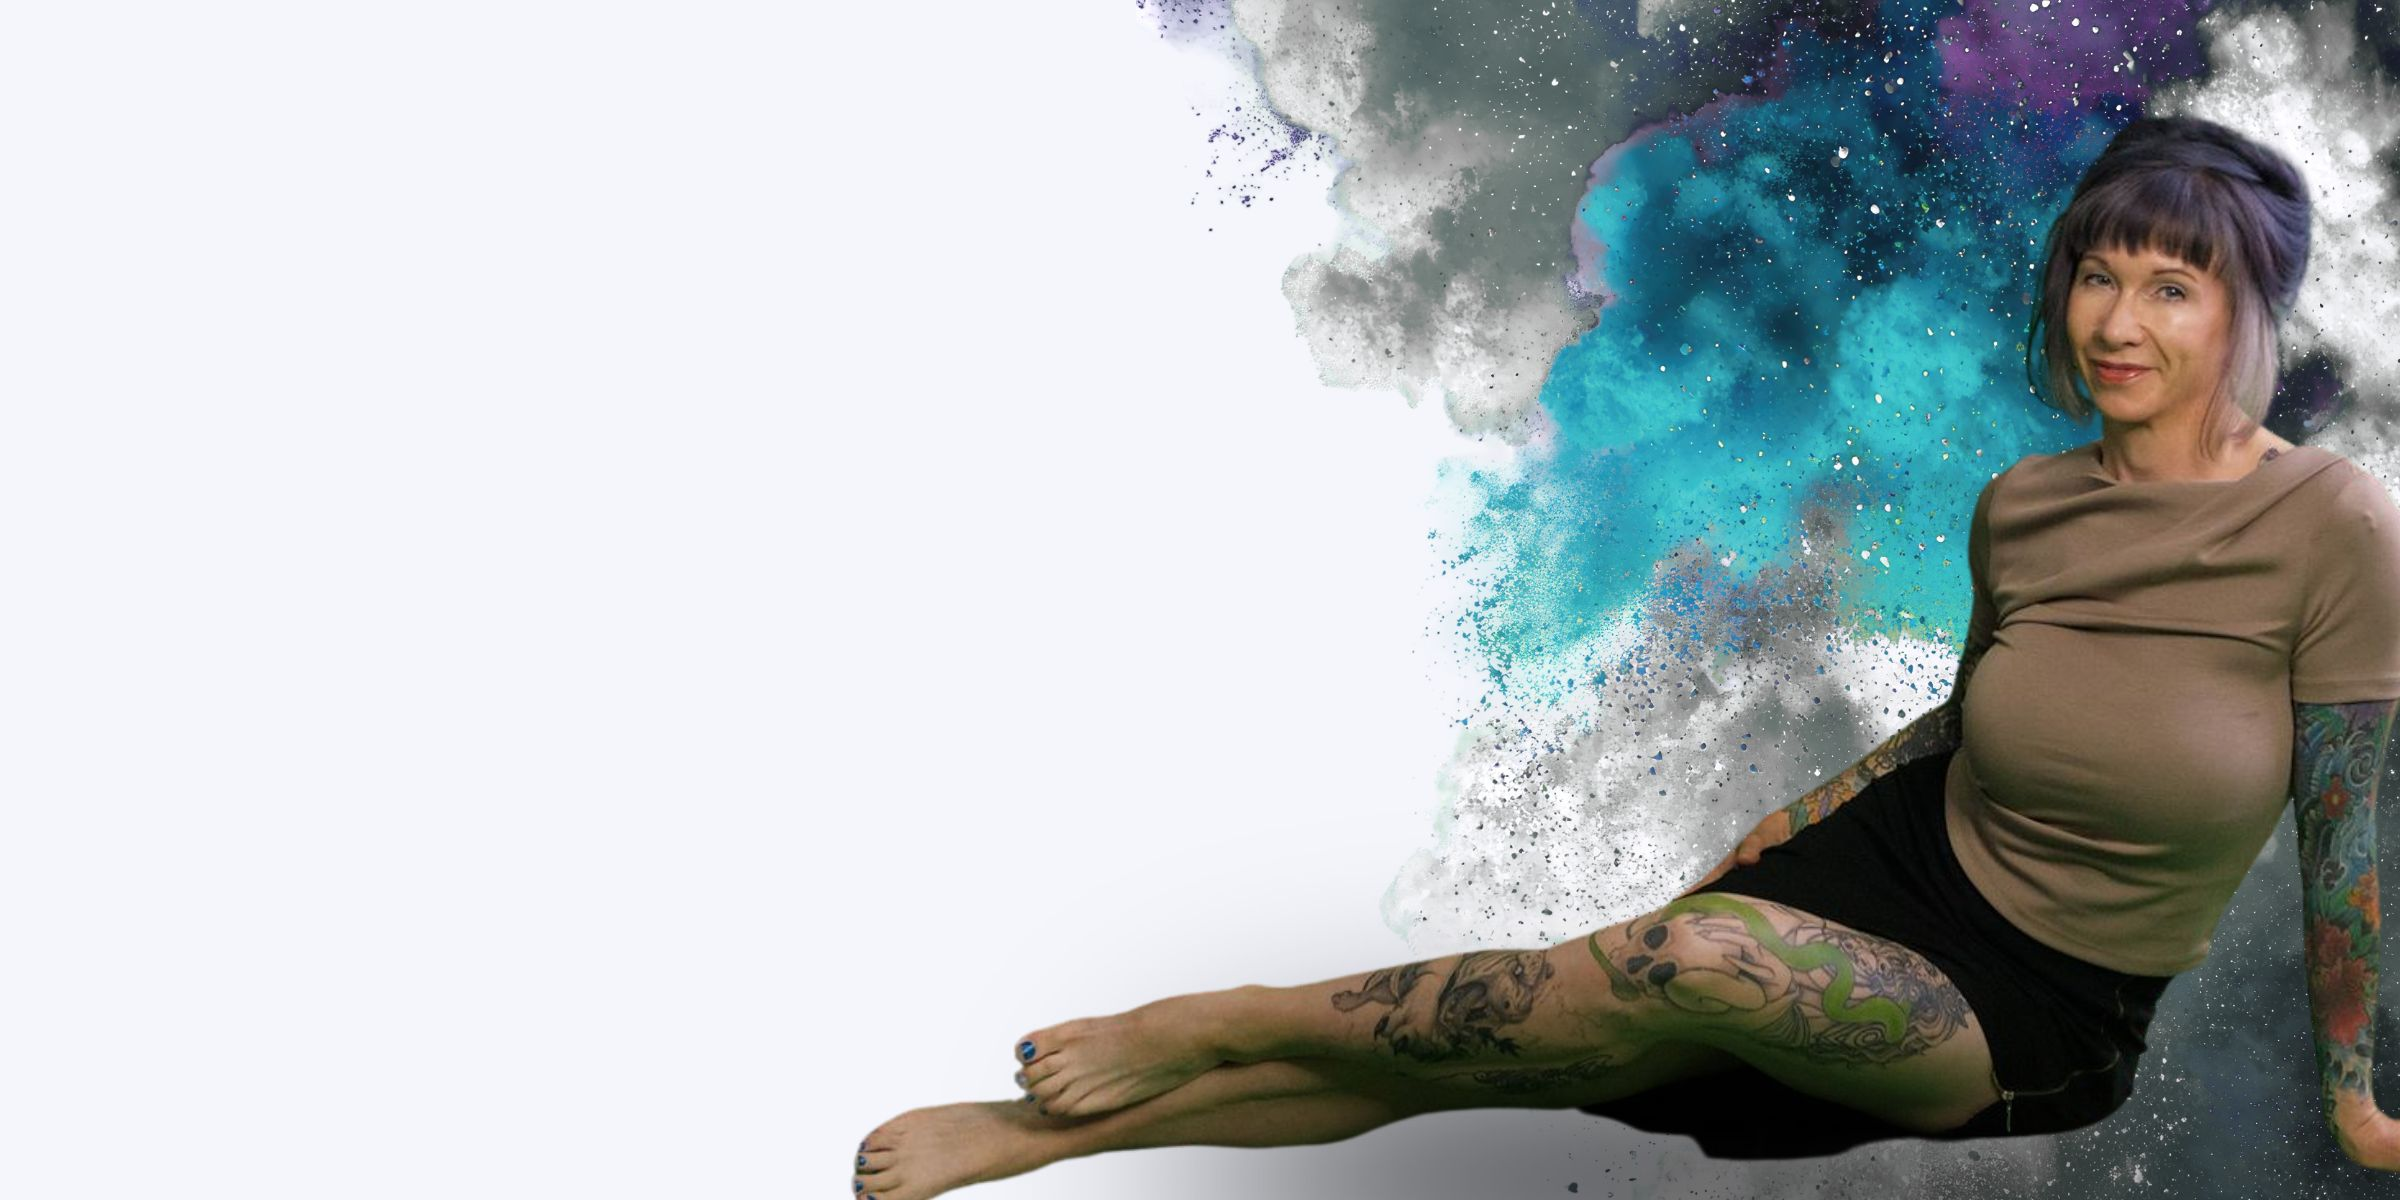
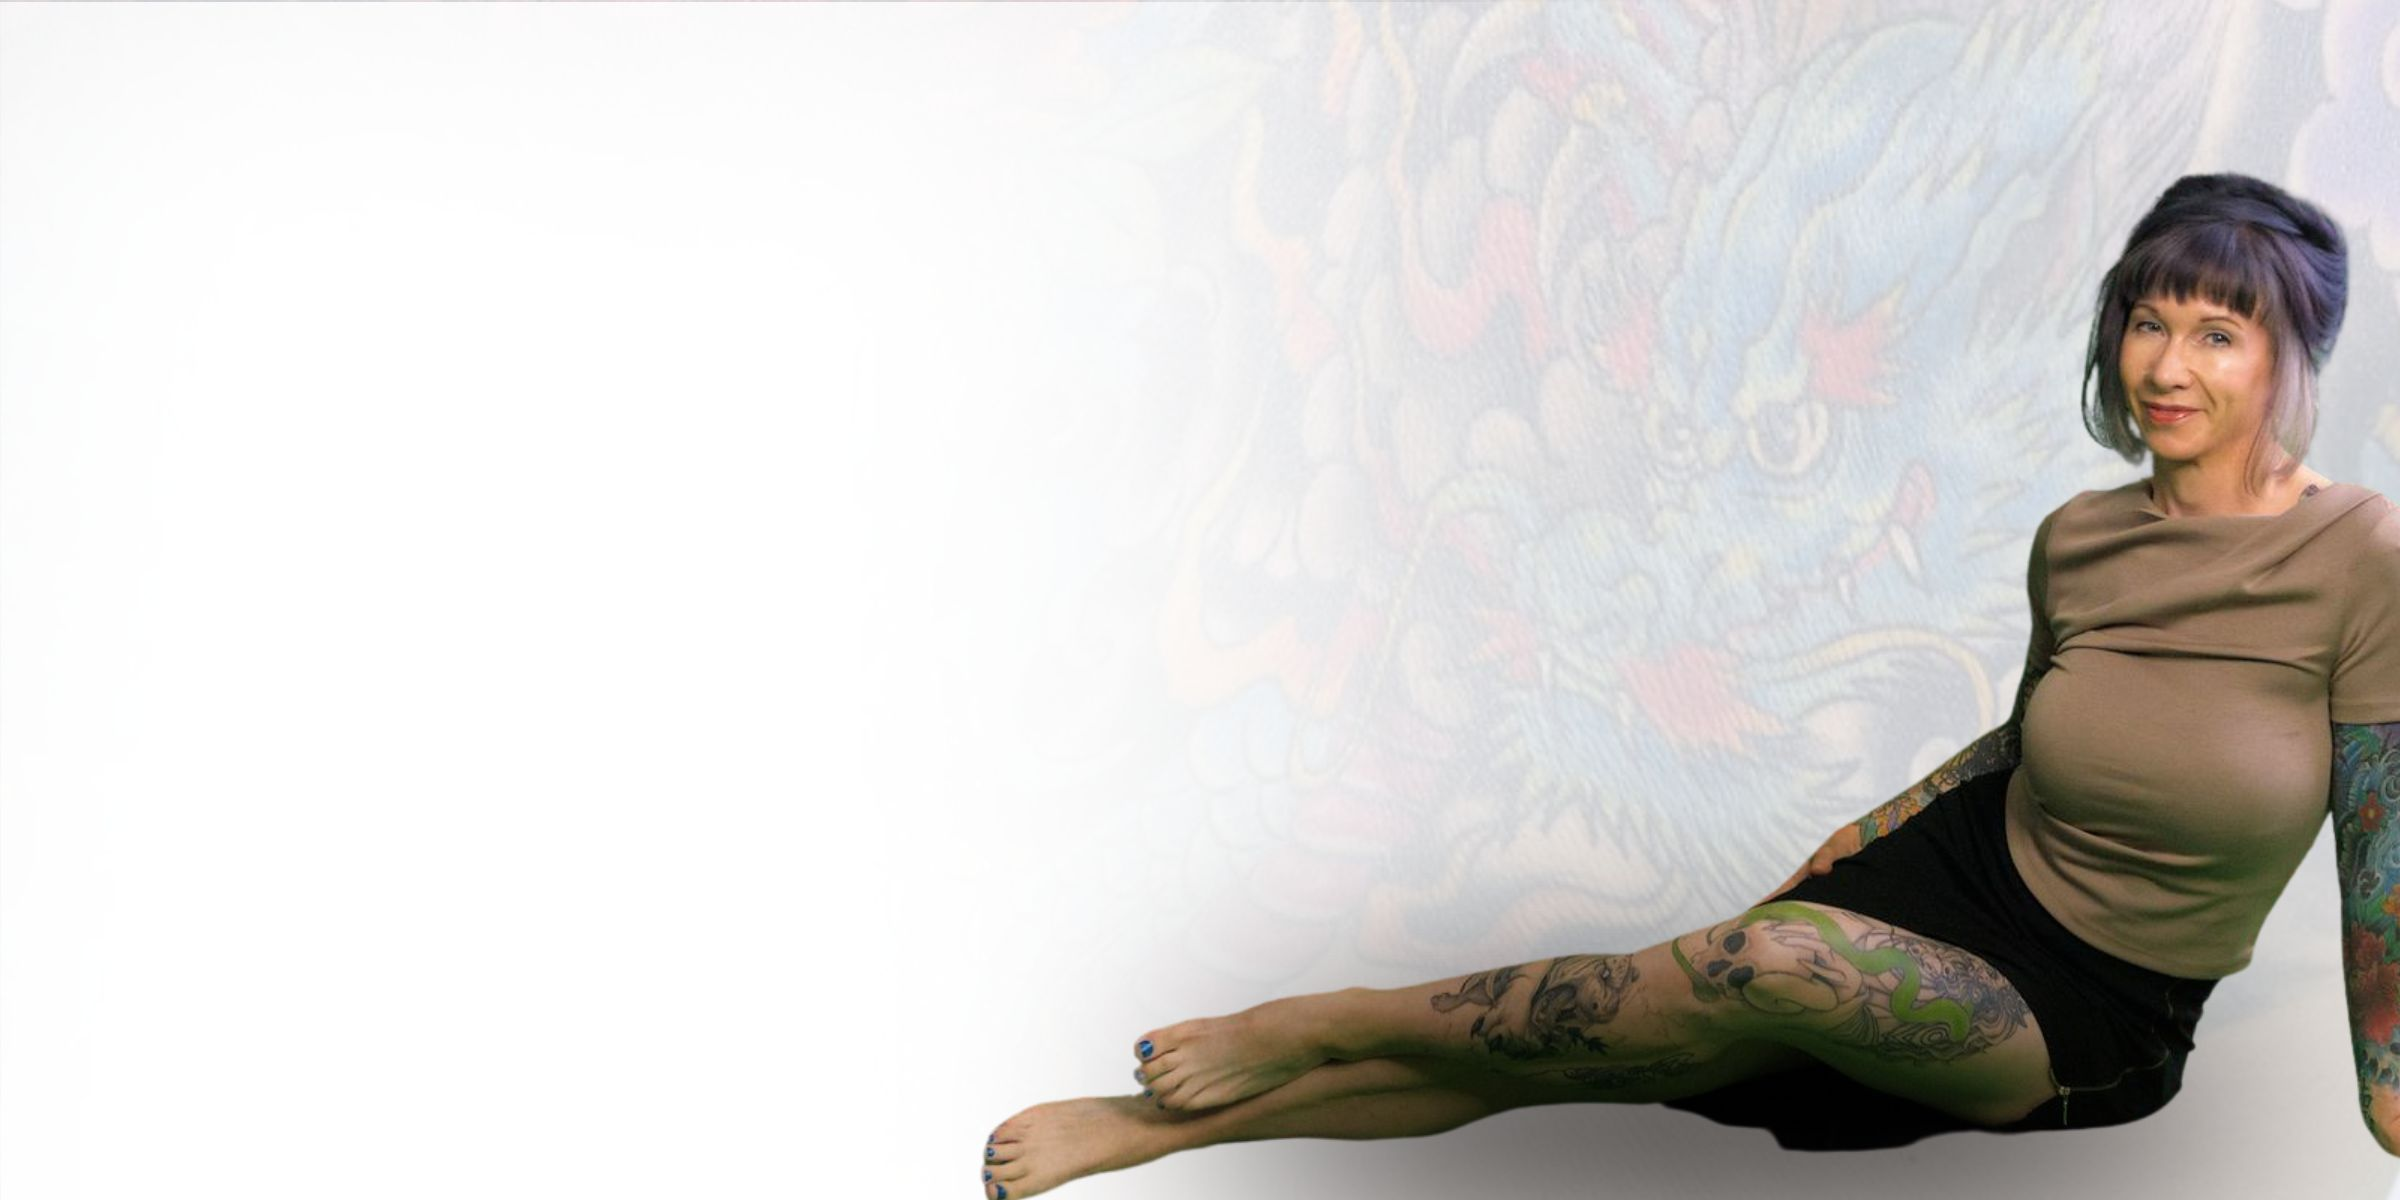
Use new Journal page hero image

diff --git a/src/styles/global.css b/src/styles/global.css
@@ -760,7 +760,7 @@ main {
   align-items: center;
   padding: 2.5rem var(--page-gutter);
   background-color: var(--paper);
-  background-image: url("/assets/journal-page-hero.jpg?v=1c0040f");
+  background-image: url("/assets/journal-page-hero.jpg?v=20261003");
   background-position: center 24%;
   background-size: cover;
 }
